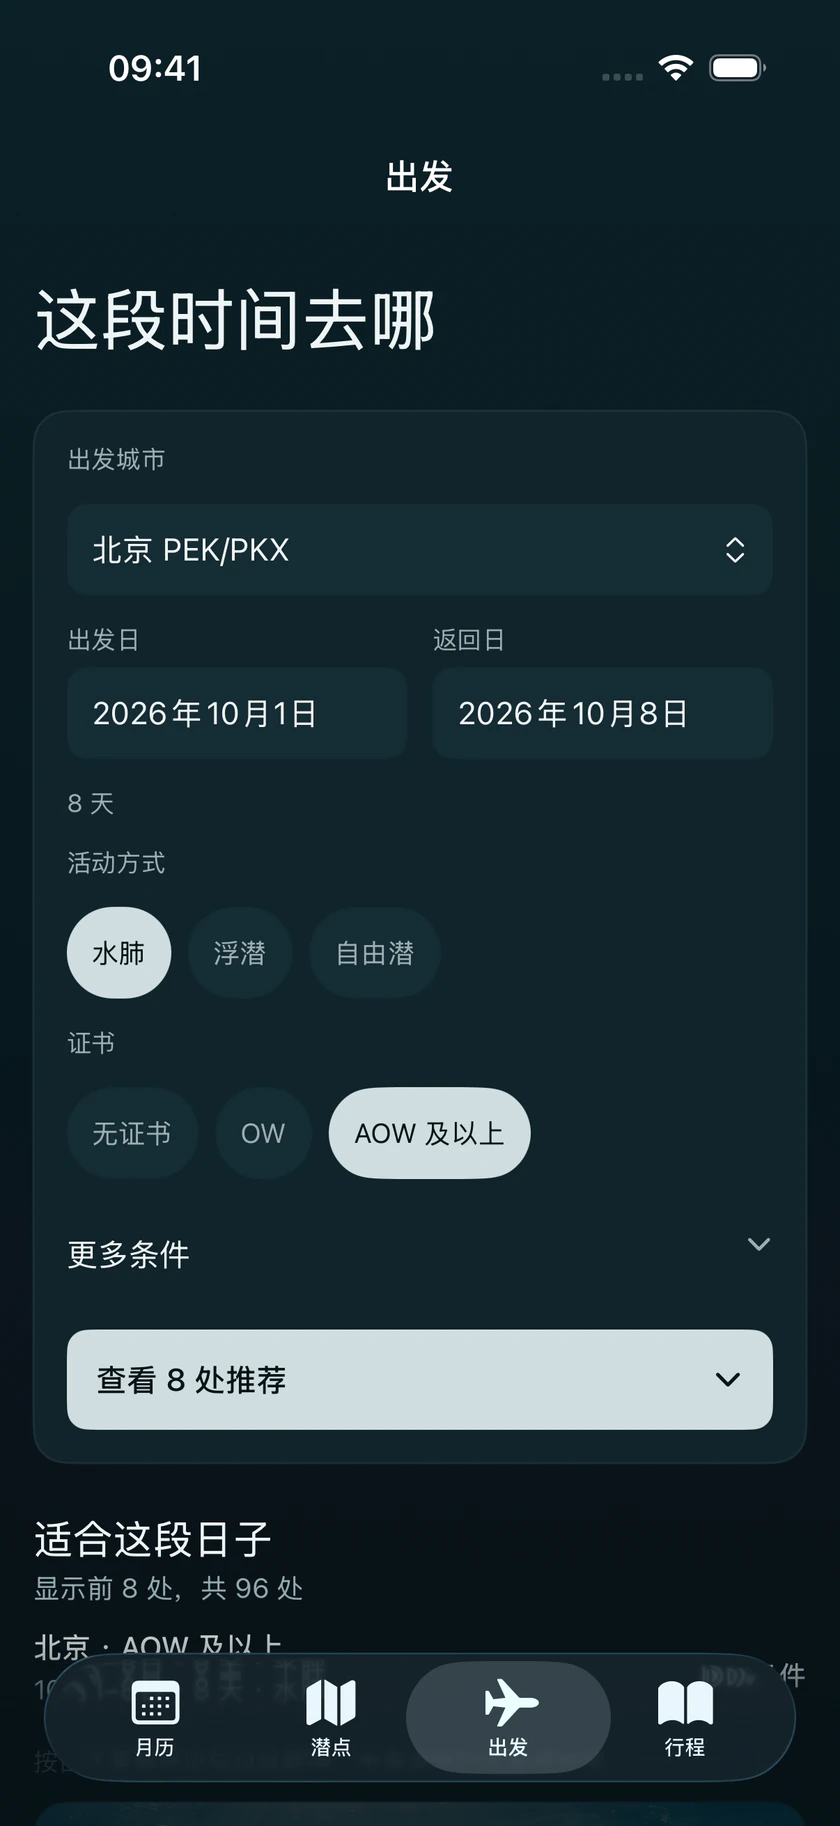
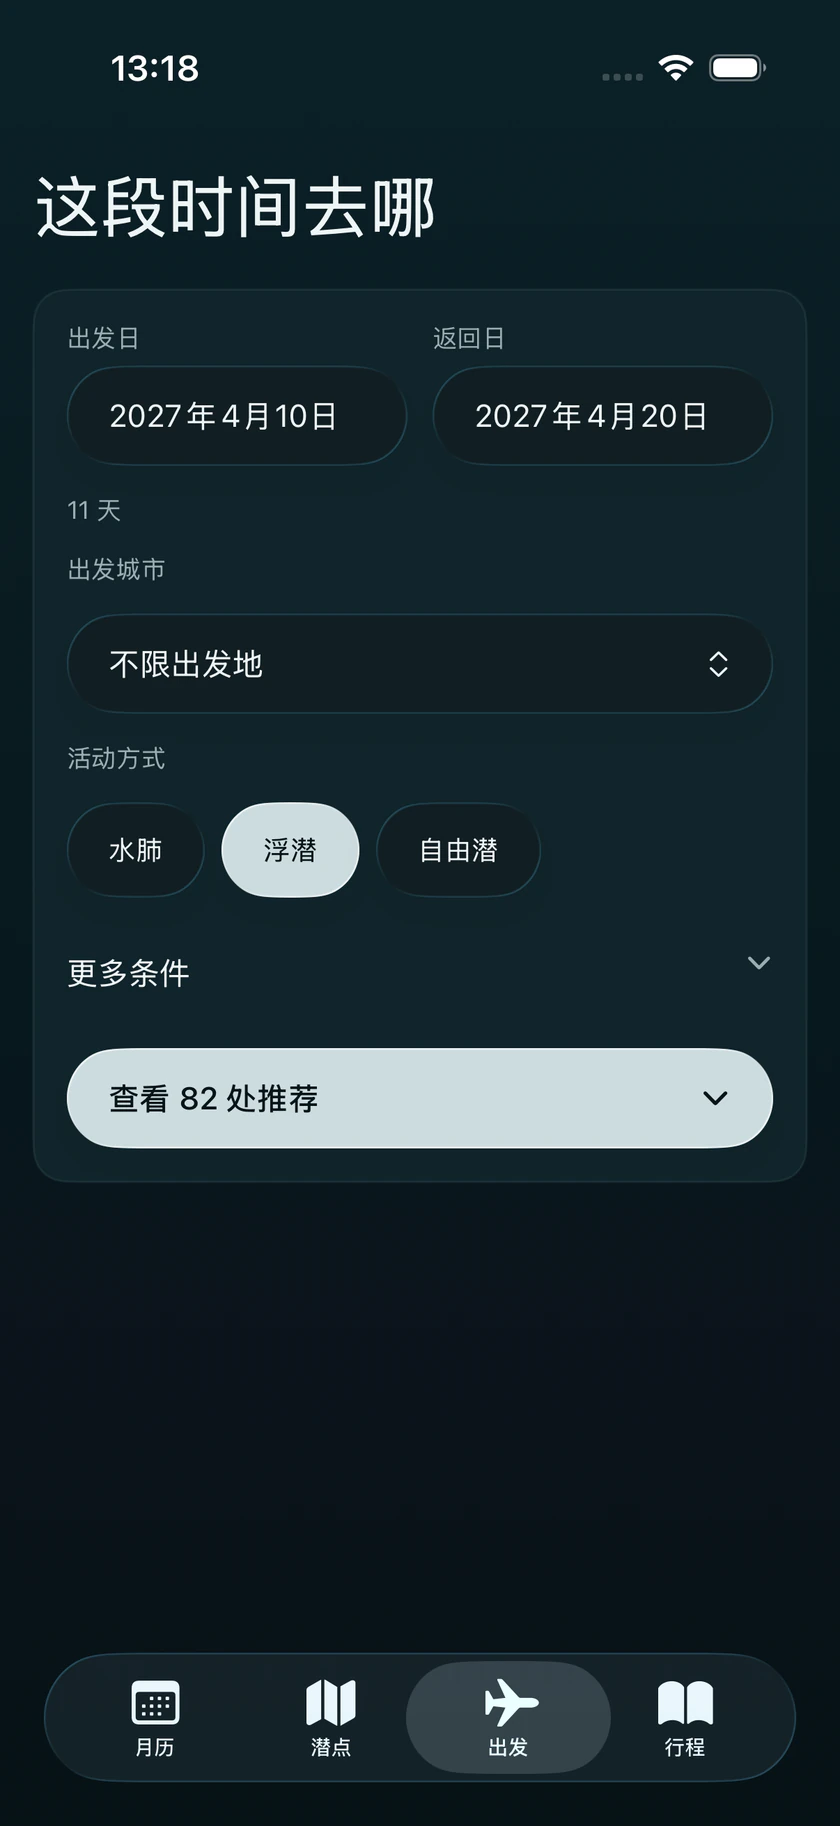
feat(qianli): sync website with latest destination and trip experience

diff --git a/src/styles/qianli.css b/src/styles/qianli.css
@@ -48,6 +48,10 @@
 .q-boundary { max-width: 650px; margin: 64px auto 0; padding: 24px 28px; border-left: 1px solid var(--q-aqua); background: var(--q-surface); color: var(--q-muted); font-size: 15px; line-height: 1.9; }
 .q-trip-screens > :nth-child(2) { margin-top: 104px; }
 .q-trip-screens > :nth-child(3) { margin-top: 32px; }
+.q-product-notes { display: grid; grid-template-columns: repeat(2, minmax(0, 1fr)); gap: 32px; max-width: 768px; margin: 48px auto 0; }
+.q-product-notes > div { border-top: 1px solid var(--q-border); padding-top: 24px; }
+.q-product-notes h3 { font-size: 24px; line-height: 1.5; margin-bottom: 12px; }
+.q-product-notes p { color: var(--q-muted); font-size: 14px; line-height: 1.9; margin-bottom: 0; }
 .q-final { text-align: center; border-top: 1px solid var(--q-border); padding-block: 100px 88px; }
 .q-final h2 { font-size: clamp(40px, 4.5vw, 62px); line-height: 1.35; margin: 26px 0 38px; }
 .q-final .q-identity { justify-content: center; text-align: left; }
@@ -82,6 +86,7 @@
   .q-trio > :nth-child(3) { margin-top: 0; grid-column: 1 / -1; width: min(100%, 320px); justify-self: center; }
 }
 @media (max-width: 600px) {
+  .q-product-notes { grid-template-columns: minmax(0, 1fr); gap: 28px; }
   .q-wrap { width: calc(100% - 40px); }
   .q-nav { min-height: 76px; gap: 16px; }
   .q-nav .wordmark { font-size: 10px; }

diff --git a/README.md b/README.md
@@ -67,17 +67,17 @@ public/
 工作室及文档页共用导航与页脚；`/qianli/` 使用独立的 `QianliLayout` 与深海主题，保留工作室入口。两个 Layout 通过 `SEO.astro` 共用 description、canonical、robots、OG、Twitter Card 和站点图标；URL 由 `Astro.site` 解析。首页提供 Organization，潜历产品页提供 SoftwareApplication（iOS 26 or later），文档页不声明为软件。当前使用系统字体，无外部字体请求或客户端执行脚本。
 
 `@astrojs/sitemap` 构建生成 `sitemap-index.xml` 与 `sitemap-0.xml`，收录五个正式页面；`public/robots.txt` 允许全站抓取并指向索引。`src/pages/404.astro` 生成 `404.html`，声明 `noindex` 并排除于 sitemap。发布验收结果见 [Website Release Polish](docs/website-release-polish.md)。
-隐私和支持页通过 `DocumentLayout` 复用潜历深色主题，采用紧凑长文布局；已移除草稿与 `noindex`。当前政策版本为 1.0，生效／更新日期为 2026-09-17。源码依据、35 项隐私事实表及 App Privacy 待确认事项见 `docs/qianli-app-privacy-audit.md`。
+隐私和支持页通过 `DocumentLayout` 复用潜历深色主题，采用紧凑长文布局；已移除草稿与 `noindex`。当前政策版本为 1.1，生效／更新日期为 2026-09-21。源码依据、35 项隐私事实表及 App Privacy 待确认事项见 `docs/qianli-app-privacy-audit.md`。
 
 ## 潜历产品展示
 
 `src/styles/qianli-tokens.css` 对齐 QIAN 的 `docs/color-system.md` 和 `ios/Qianli/Theme/QianliTheme.swift`；`qianli.css` 仅作用于产品主题。首页只通过 `QianliArtwork.astro` 展示深色潜历作品卡，整体保留工作室暖白视觉。
 
-素材位于 `public/assets/qianli/`，原样复制自 QIAN `IOS` 分支的本地 RC：优先 `screenshots/rc-final/website/`，其中缺少的 `go-results`、`transport-info`、`trip-list`、`trip-detail` 使用 `app-store-like/` 内的同名 `-final.png`。App Icon 来自 `ios/Qianli/Resources/Assets.xcassets/AppIcon.appiconset/appicon-1024.png`。不修改 PNG；Hero 与首页卡片仅通过 CSS 裁切展示。
+素材位于 `public/assets/qianli/`。2026-09-21 更新的月历、潜点 Finder、出发规划、附近地图和行程列表图来自 QIAN `IOS` 分支优化验收截图，来源与哈希记录见 `docs/qianli-screenshot-sources.json`；其余目的地详情、交通、照片记录图继续使用 RC 素材。App Icon 来自 `ios/Qianli/Resources/Assets.xcassets/AppIcon.appiconset/appicon-1024.png`。不修改 App 截图内容；网页只用真实画面和 CSS 裁切展示。
 
 产品页顺序为 Hero、时间与季节、出发规划（含鲸鲨搜索）、目的地功课、行程与记录、底部 CTA。手机宽度截图单列，正文展示区保留完整截图；图片均声明尺寸，Hero 主图 `eager` / `fetchpriority="high"`，其余截图 `lazy`，全部异步解码。暂无正式商店链接，两个 CTA 均为禁用按钮。
 
-网页加载 `public/assets/qianli/web/` 中的 WebP 派生图：11 张截图各有 480 / 840 / 1206px 三档，按 `srcset` / `sizes` 选择，App Icon 为 192px。原始 PNG 全部保留。两套 1200×630 分享图在 `public/assets/og/`；站点 favicon 使用独立的极简 R，不使用潜历 App Icon。
+网页加载 `public/assets/qianli/web/` 中的 WebP 派生图：截图各有 480 / 840 / 1206px 三档，按 `srcset` / `sizes` 选择，App Icon 为 192px。原始 PNG 全部保留。两套 1200×630 分享图在 `public/assets/og/`；站点 favicon 使用独立的极简 R，不使用潜历 App Icon。
 
 更换截图或调整分享图后可运行 `npm run assets:generate`，再执行 check / build。生成脚本使用 Sharp 和本机系统字体（当前图卡在 macOS、PingFang SC / Songti SC 下生成）；输出文件随仓库保存，正常开发、CI 构建不需要重新生成，也不依赖外部字体或图片服务。
 
@@ -92,8 +92,8 @@ public/
 
 ## 待提供内容
 
-- 潜历：正式 App Store URL 与上架状态；当前显示「App Store · 即将上线」。
-- 联系方式：一般联系 `hello@redox.studio`（About）；潜历支持 `support@redox.studio`；隐私相关 `privacy@redox.studio`。支持邮件只处理 App 使用问题，隐私邮件处理隐私问题或信息处理请求。官网已更新，QIAN App 内旧邮箱需另行同步；邮件保留／删除规则及 Apple 后台诊断使用仍需负责人确认，见审计文档。网站内容已按当前代码完成，不代表 App Store 标签或发行包验收已完成。
+- 潜历：正式 App Store URL 与上架状态；当前显示「App Store · 即将上线」。产品页已同步 2026-09-21 的月历、Finder、出发、附近地图、行程照片与多图分享能力；Privacy / Support 已同步 MapKit、外部小红书入口、照片封面与备份格式变化。
+- 联系方式：一般联系 `hello@redox.studio`（About）；潜历支持 `support@redox.studio`；隐私相关 `privacy@redox.studio`。支持邮件只处理 App 使用问题，隐私邮件处理隐私问题或信息处理请求。官网与当前 QIAN App 联系方式已一致；邮件保留／删除规则及 Apple 后台诊断使用仍需负责人确认，见审计文档。网站内容已按当前代码完成，不代表 App Store 标签或发行包验收已完成。
 - 品牌素材可放入 `public/assets/redox/`。当前没有虚构人物、简历或未发布作品。
 
 当前构建的用户可见页面无 TODO / Placeholder；开发用占位组件和技术文档中的说明保留。商店 URL 确认并正式上架后，再将禁用按钮换为真实链接。

diff --git a/docs/qianli-app-privacy-audit.md b/docs/qianli-app-privacy-audit.md
@@ -187,3 +187,23 @@ App 清单：`NSPrivacyTracking=false`；tracking domains 和 collected data 均
[3 lines of base64/hex data omitted]
+
+
+## 2026-09-21 产品优化补充
+
+本节补充审计原始快照之后 QIAN `IOS` 分支已提交的产品能力；原文中的 2026-09-17 HEAD、代码行号和 35 项表格保留为历史证据，不应覆盖以下最新行为。当前审阅到 QIAN HEAD `f118805`，工作区另有 `artifacts/ui-review/` 和本机工程文件未作为产品能力依据。
+
+- 月历改为“月份 → 当月适合目的地 → 当月生物事件”的 Time → Destination 结构，按最佳／良好／可潜分组；不再使用旧的全球地图概览作为月历主结构。
+- 潜点 Finder 现在支持文本搜索、地区／特色／月份／生物 Quick Filter、收藏、列表／Apple MapKit 地图切换、名称／国家地区／建议天数／月份适合度排序，并提供最多两个目的地比较。地图不请求用户当前位置；MapKit 底图可能联网或使用系统缓存。
+- 目的地详情新增附近目的地概览与完整地图，范围 100／300／500 km，按目的地坐标直线距离计算；不代表交通路线。
+- 出发流程要求显式日期、出发城市、活动方式及水肺证书（适用时），结果默认展示 6 个、可展开全部；排序为季节优先、同档常见直飞、建议天数余量。没有实时余票、房态、天气或票务 API。
+- 行程页按正在进行／接下来／过去年份组织，顶部提供待办、笔记、记一潜、照片快捷入口；当前行程可确认后切换待办模板，原清单及完成状态会被替换。
+- 照片新增独立顺序、编辑拖动、行程封面、查看器保存原照片、多图分享（独立封面，最多 8 张附图）；ZIP 携带照片顺序与可选 `coverPhotoID`；照片记录缺少必需 `order` 的早期备份无法解码。
+- 目的地详情新增“在小红书搜索”：尝试打开小红书 App，失败时打开小红书网站首页；搜索结果不回传、不缓存。
+- App 内隐私页已加入 Apple MapKit 说明；官网 Privacy 版本更新为 1.1（2026-09-21），Support 已改写对应操作路径。
+
+这轮产品优化没有引入账号、CloudKit、远程数据库、用户定位地图、广告、Analytics、ATT、崩溃上报或商户数据库。当前官网未把测试截图中的具体地点／时间当作产品承诺。
+
+源码定位：`Views/Sites/SitesMapView.swift`（makeUIView）、`NearbyDestinations.swift`（NearbyMapOverview）、`DestinationComparison.swift`（ComparisonSelection）、`Services/ExternalXiaohongshuSearch.swift`（open）、`Services/TripPhotoStore.swift`（TripPhotoOrder / TripPhotoCover）、`Services/TripExport.swift`（Photo.order / Trip.coverPhotoID）、`Services/TripImport.swift`（validate / restore）、`Views/Plan/TripDetailView.swift`（照片编辑 / TripChecklistTemplateSheet）、`ShareComposerView.swift`（CoverSelection / additionalPhotosSection）。
+
+Apple 口径复核：[地图服务说明](https://www.apple.com/legal/privacy/data/en/apple-maps/)、[App Privacy](https://developer.apple.com/app-store/app-privacy-details/)（2026-09-21）。MapKit 系统服务的数据处理应与开发者取得的数据分开，不将其直接推断为潜历收集位置；原有支持邮件、Apple 后台诊断及发行包待确认项仍未关闭。

diff --git a/docs/qianli-product-update-2026-09-21.md b/docs/qianli-product-update-2026-09-21.md
@@ -1,0 +1,31 @@
+# 潜历官网产品同步 · 2026-09-21
+
+## 范围与依据
+
+官网基线 2d25b0c；QIAN IOS 审阅至 f118805。读取最新 AGENTS、handoff、月历/Finder/出发重构、排序、附近目的地、行程编辑、照片排序、封面与多图分享文档，并核对相应 SwiftUI 入口、模型、导入导出服务和地图实现。只修改官网；QIAN 本机签名与其他任务产物不纳入改动。
+
+## 页面调整
+
+- 保留原 Hero、四个章节、CTA 与深海主题；月历说明改为月份与季节分组，具体假期交给出发页。
+- 补充 Finder 四类条件、列表/地图、两地比较、出发显式日期和条件排序、附近目的地范围。
+- 行程章节补充照片排序、独立行程封面、原照片保存和最多 8 张附图的分享长图。旧行程详情主图移出营销展示，保留原资产供历史追溯。
+- 首页仅共享更新后的月历截图与 alt，工作室整体视觉及 About 未改。
+- Privacy 1.1：2026-09-21 生效，补齐 App 内 MapKit 联网、详情地图概览、外部小红书、保存原照片 addOnly、封面与排序数据、模板替换。
+- Support：照片编辑/完成/删除、保存原图、独立分享封面、附图、模板替换、附近地图、Finder 排序和两地比较；删除“旧版照片 ZIP 全兼容”承诺。缺少必需 order 的早期照片备份不能恢复；coverPhotoID 本身可选。
+
+## 素材边界
+
+替换 5 张既有 PNG，增加 Finder 1 张；来源及复制时 SHA-256 见 qianli-screenshot-sources.json。原样复制已有实际验收画面，不新截图、不合成界面。重新生成对应三档 WebP，沿用现有尺寸/懒加载机制。
+
+月历、Finder、出发表单/结果、三亚附近概览、无照片行程列表均有适用的真实画面。日期选择、实用信息、交通与潜水记录仍用已有 RC 图，未宣称全部页面都有 9 月 21 日重新拍摄的素材。最新照片/多图分享验收图含“App 截图作为导入照片”的测试内容，未用作营销图；需要完整一致的新版营销图集时仍需另行准备真实示例素材。产品能力已按代码更新，不编造图像填充。
+
+收尾时发现 /tmp 中月历与 Finder 来源被其他验收工作重写；官网已保存的 PNG 与本轮复制时记录的哈希一致，未追随并发任务覆盖素材。QIAN 出现新的预发布审阅文档，非本轮创建。
+
+## 验证
+
+- npm run assets:generate 完成；npm run build：20 个 Astro 文件检查，0 errors、0 warnings、0 hints，6 个静态页面生成。
+- 首页、产品、Privacy、Support 共 24 个宽度组合：1440 / 1024 / 768 / 430 / 390 / 320px，document scrollWidth 均等于实际 viewport，无横向溢出。
+- 桌面产品 Hero 和最窄屏 Support 正文目视检查；浏览器 warning/error 日志为空。
+- 四个路由 HTTP 200，页面链接、锚点、本地图片及全部 srcset 资源可读取，图片声明 width/height。
+- Apple 地图隐私说明外链已通过官方页面核对；不发送测试邮件。
+- git diff --check 通过。没有执行 App 真机、模拟器或发行包验收；没有改 DNS、Pages、CNAME、HTTPS 或 push。
